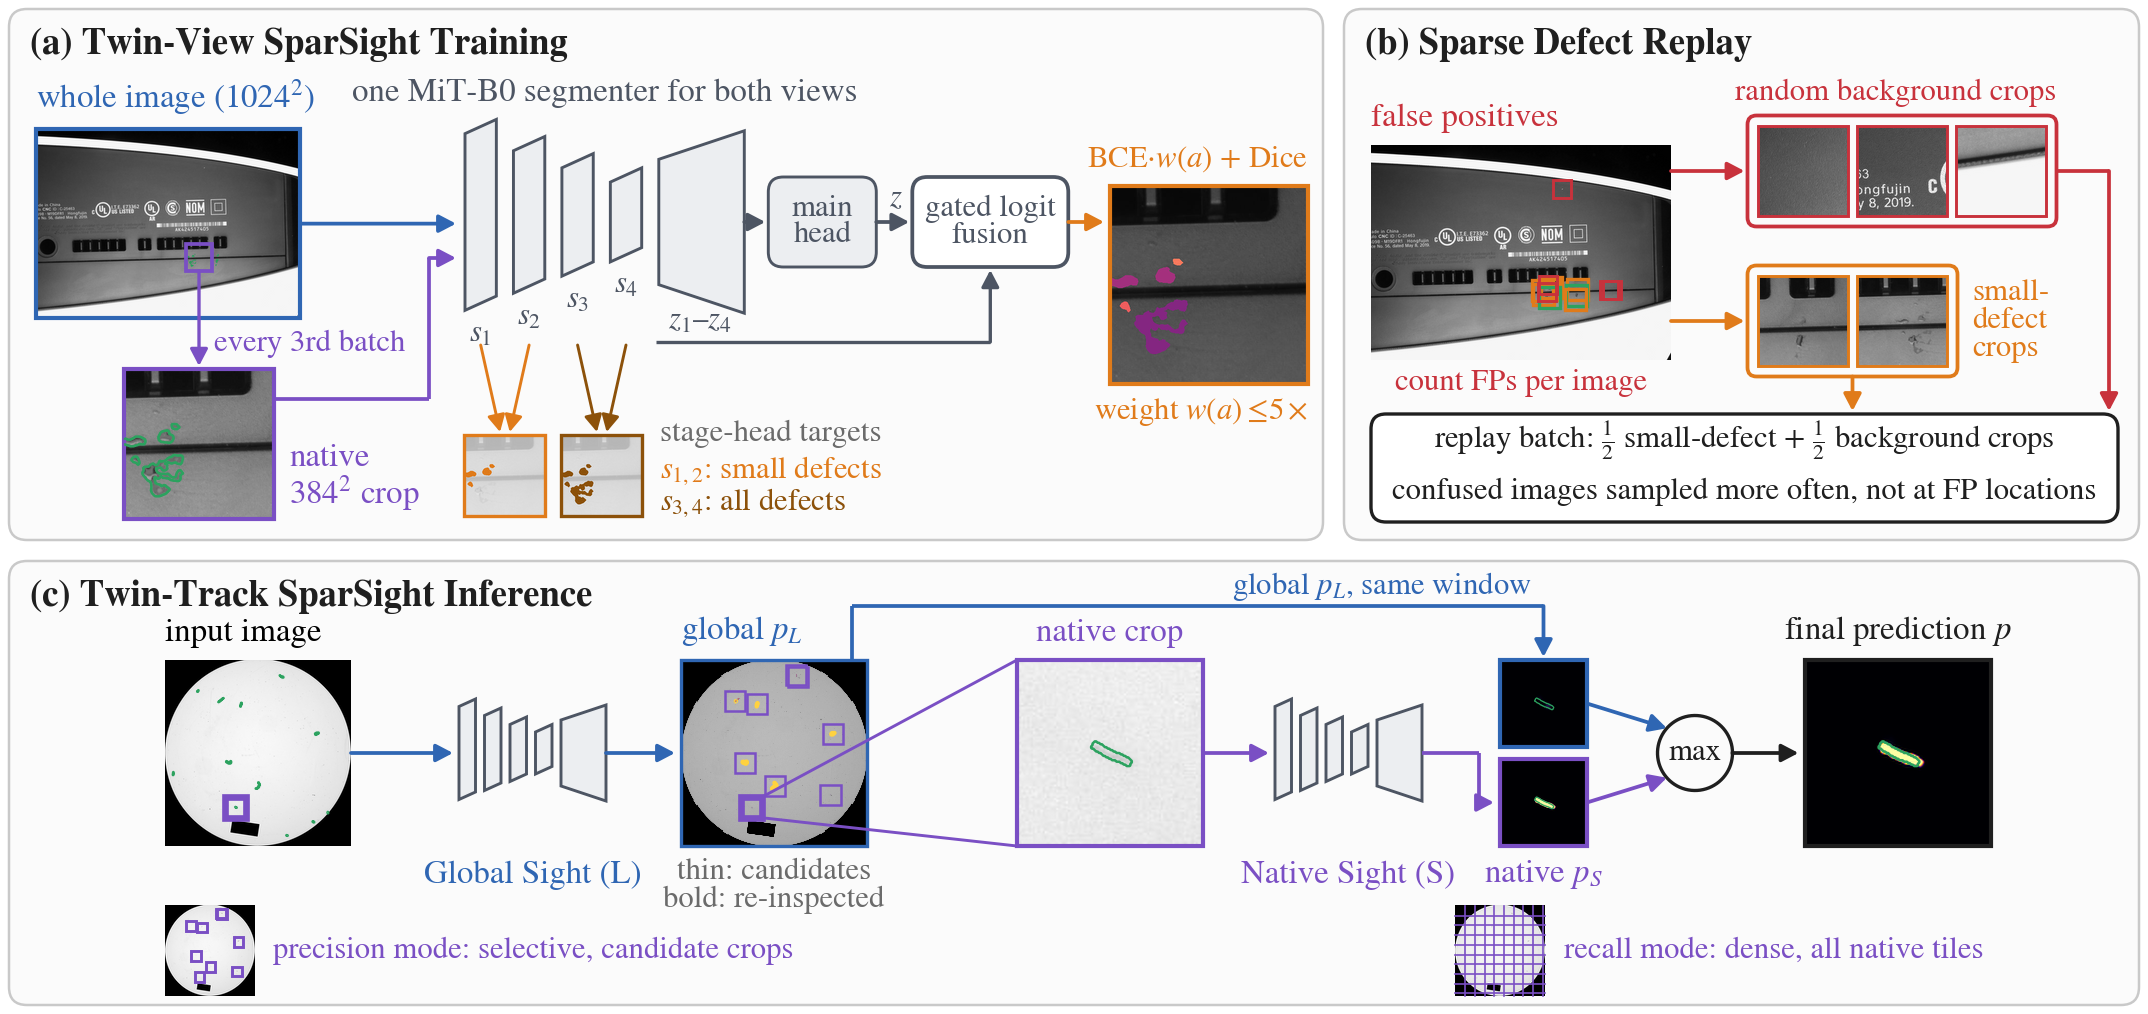
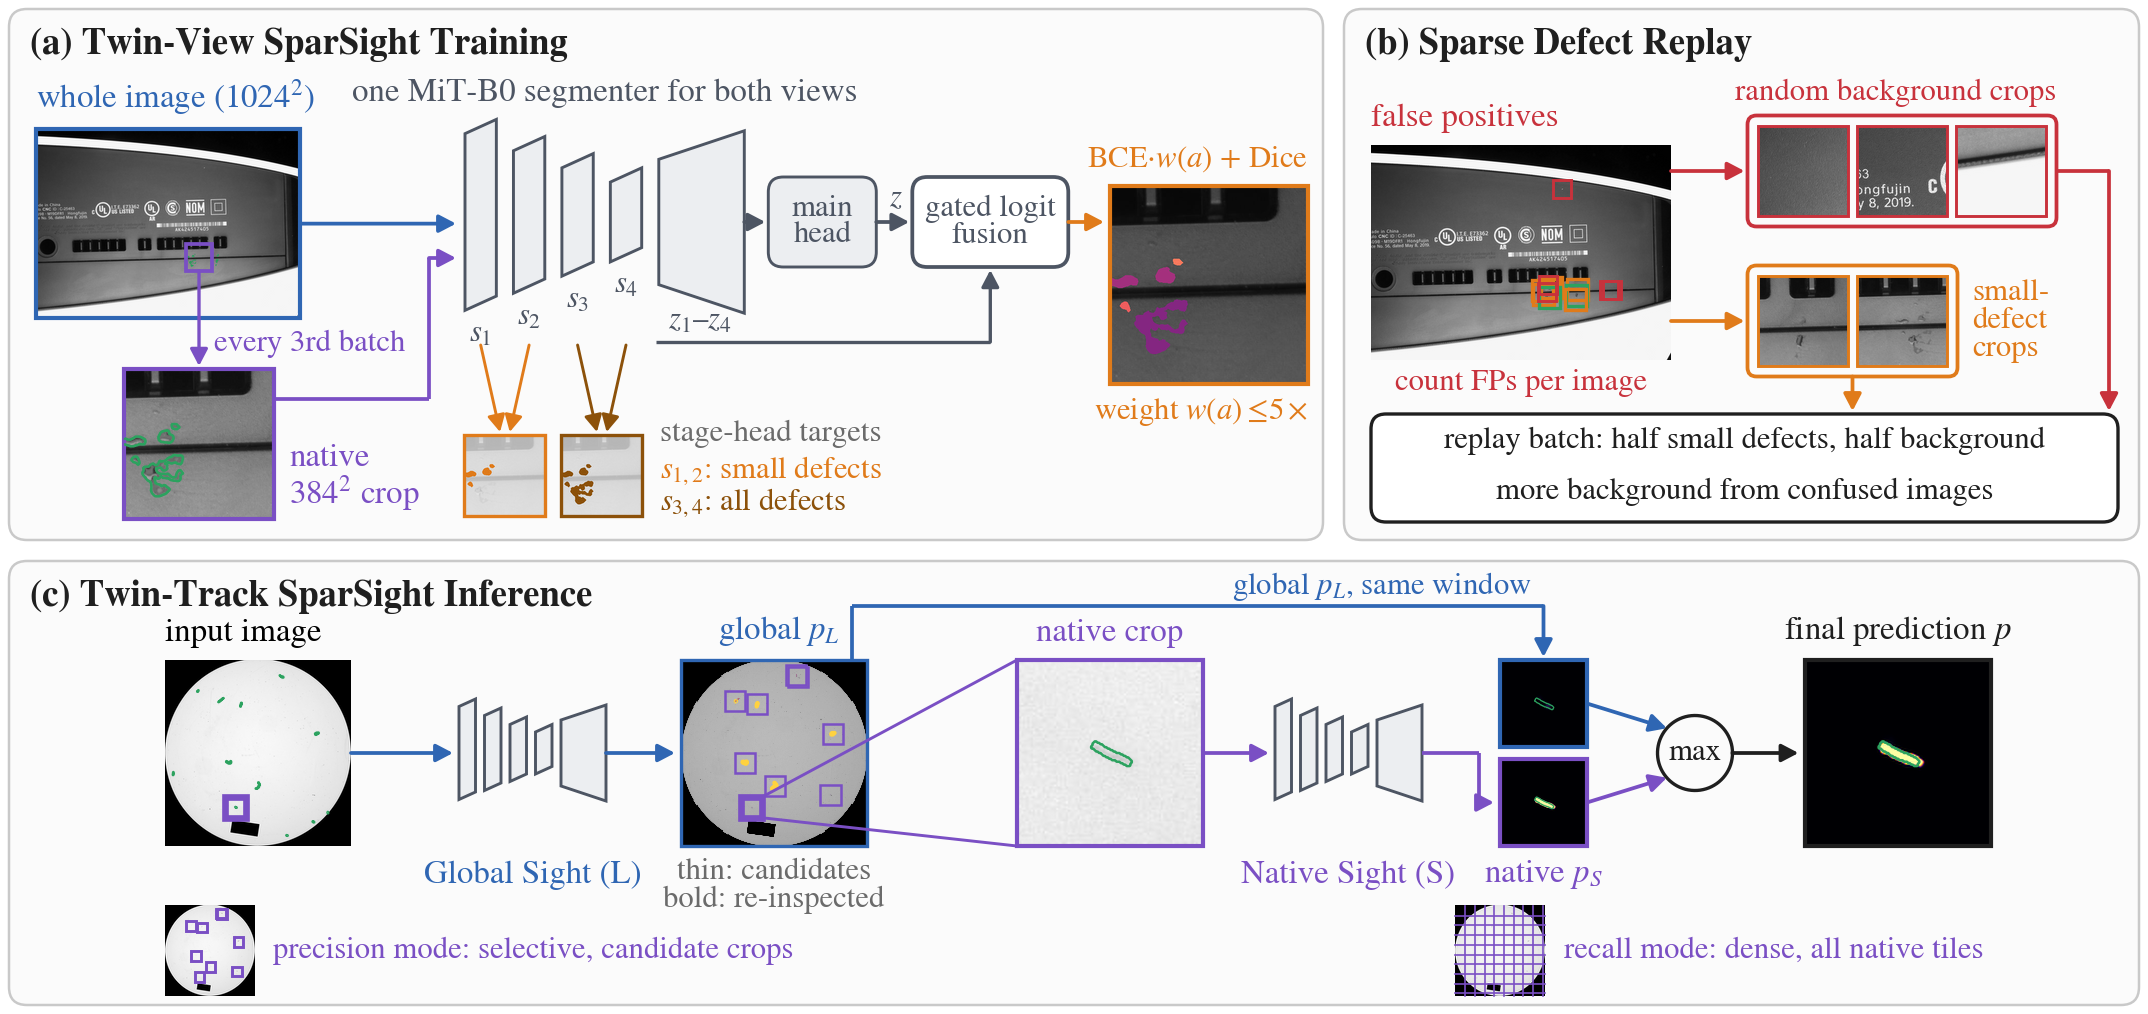
Fig. 1 script and overview figure as in the paper

Changed region(s): [[0.655, 0.428, 0.9669, 0.4892], [0.3119, 0.6114, 0.4055, 0.642]]

diff --git a/tools/figures/fig1_framework.py b/tools/figures/fig1_framework.py
@@ -267,9 +267,9 @@ def draw(out_dir):
     seg(ax, [(rx + rwid, bgy + cs / 2), (gx0 - pad - 0.01, bgy + cs / 2)], c=REP)
     seg(ax, [(rx + rwid, psy + cs / 2), (gx0 - pad - 0.01, psy + cs / 2)], c=SIZE)
     rbox(ax, 4.57, 1.98, 2.49, 0.36, fc="white", ec=INK, lw=0.8)
-    ax.text(5.815, 2.25, "replay batch: $\\frac{1}{2}$ small-defect + $\\frac{1}{2}$ background crops", ha="center",
+    ax.text(5.815, 2.25, "replay batch: half small defects, half background", ha="center",
             va="center", fontsize=SMALL, color=INK)
-    ax.text(5.815, 2.08, "confused images sampled more often, not at FP locations", ha="center", va="center", fontsize=SMALL,
+    ax.text(5.815, 2.08, "more background from confused images", ha="center", va="center", fontsize=SMALL,
             color=INK)
     seg(ax, [((gx0 - pad + ps_x1) / 2, psy - pad), ((gx0 - pad + ps_x1) / 2, 2.35)], c=SIZE)
     seg(ax, [(bg_x1, bgy + cs / 2), (7.03, bgy + cs / 2), (7.03, 2.35)], c=REP)
@@ -365,7 +365,7 @@ def draw(out_dir):
     # lines start at a candidate in the lower half (fig1_data), so they never cross it
     rx_ = px + pw - 0.05
     seg(ax, [(rx_, iy + ih), (rx_, yr), (ox + cz / 2, yr), (ox + cz / 2, yt + cz + 0.01)], c=LOW)
-    ax.text(px, iy + ih + 0.04, "global $p_L$", fontsize=LAB, color=LOW, va="bottom", ha="left")
+    ax.text(rx_ - 0.04, iy + ih + 0.04, "global $p_L$", fontsize=LAB, color=LOW, va="bottom", ha="right")  # next to its arrow
     ax.text(ox + cz / 2 - 0.04, yr + 0.01, "global $p_L$, same window", ha="right", va="bottom", fontsize=SMALL,
             color=LOW)
     mx, my_, mr = ox + cz + 0.36, ctr, 0.125
